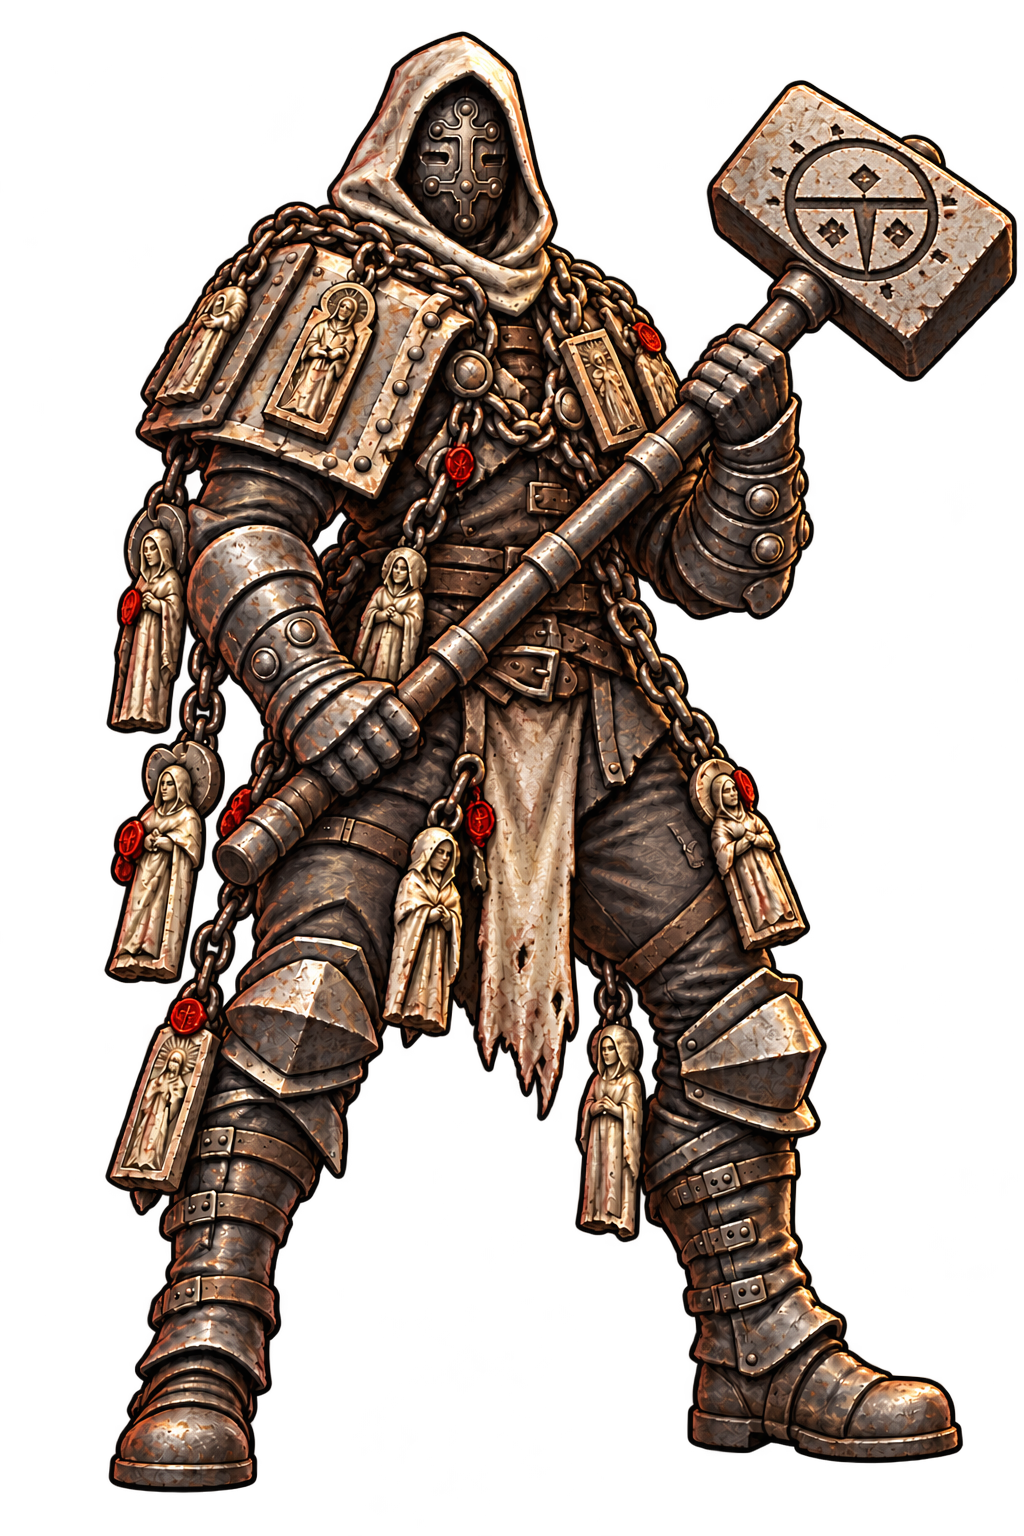
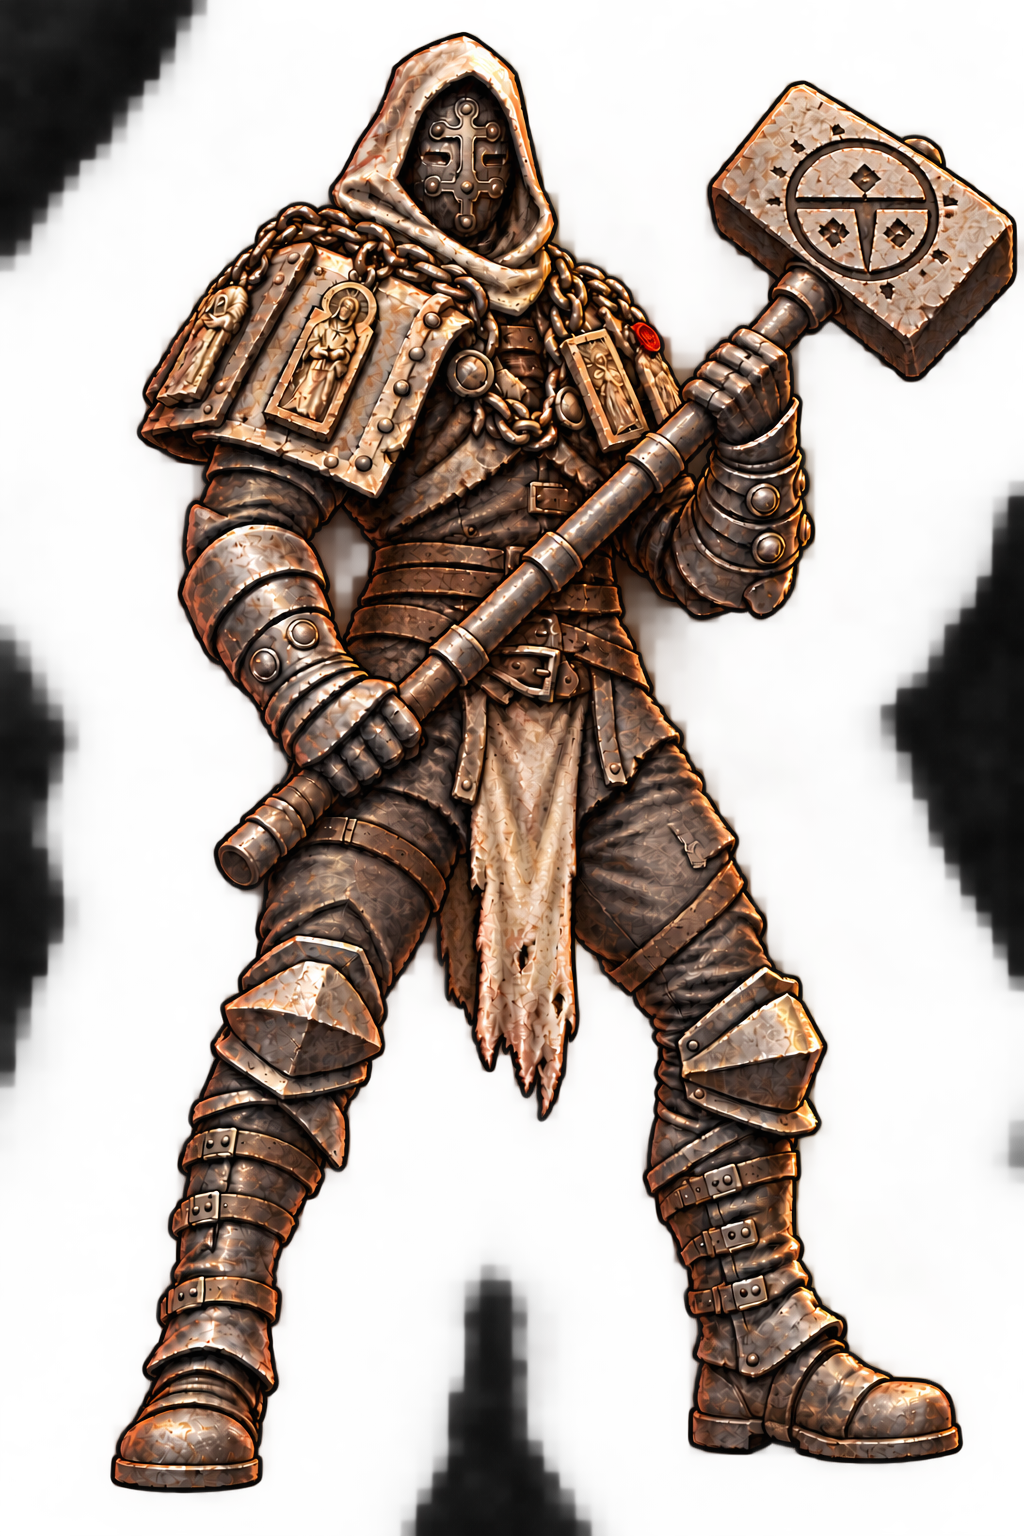
Match Witch Hunter armor and remove lower hanging relics

diff --git a/experimental/witch_hunter/README.md b/experimental/witch_hunter/README.md
@@ -4,12 +4,14 @@
 
 The approved visual direction is named **Witch Hunter**, a hooded two-handed hammer fighter intended to replace the Penitent Crusader. This folder contains the experimental character design; gameplay integration and animation assets are a later step.
 
-The user supplied a front-view image of [Bestiarum's Witch Hunter Bastion](https://bestiarumgames.com/products/witch-hunter-bastion-stl-penitent-hero) as the reference. The design carries over the hood, sealed devotional faceplate, broad armor, armored boots and long-shaft two-handed hammer. The cape is replaced with open hanging iron chains carrying carved robed figures and devotional plaques attached by rings. The hanging objects are relics rather than living figures. The hood remains cloth; the arms and legs stay readable through gaps in the chains.
+The user supplied a front-view image of [Bestiarum's Witch Hunter Bastion](https://bestiarumgames.com/products/witch-hunter-bastion-stl-penitent-hero) as the reference. The design carries over the hood, sealed devotional faceplate, broad armor, armored boots and long-shaft two-handed hammer. The cape is removed. Devotional relief figures and plaques remain only on the shoulder armor, with the upper shoulder/chest chains preserved. All lower hanging figures and their chains, medallions, seals and attachments have been removed, exposing clean reconstructed armor and cloth. The hood remains cloth.
 
-The concept uses the game's painted, ink-outlined dark fantasy style, a heavy melee build, a right-facing three-quarter stance and feet planted on a level baseline. The two-handed grip must remain readable and clear of hanging chains. No miniature base or raised stepping rock is used.
+The concept uses the game's painted, ink-outlined dark fantasy style, a heavy melee build, a right-facing three-quarter stance and feet planted on a level baseline. The two-handed grip remains readable and clear. No miniature base or raised stepping rock is used.
 
 This is a first design image, not an animation sheet. Front/back equipment layout, clean combat poses and any ability changes follow after visual approval.
 
-The concept was generated from the supplied reference image. Visual review checked the two-handed grip, complete hammer and boots, retained hood/mask, absent cape and chain-mounted relics. The PNG is 1024×1536 RGBA with transparency. No production tests were needed for this isolated concept image.
+The concept was generated from the supplied reference image. Visual review checked the two-handed grip, complete hammer and boots, retained hood/mask, absent cape and shoulder devotional reliefs. The PNG is 1024×1536 RGBA with transparency. No production tests were needed for this isolated concept image.
 
-The hammer face bears an original engraved banishment seal: a barred ward ring, central downward wedge and inward-facing angular marks. Bones and the earlier borrowed sigil have been removed. The engraving follows the metal face perspective. The hammer shaft and collars follow one straight centerline into its centered head socket. The chain-hung devotional relics, sealed mask, hood and two-handed grip retain the approved design.
+The hammer face bears an original engraved banishment seal: a barred ward ring, central downward wedge and inward-facing angular marks. Bones and the earlier borrowed sigil have been removed. The engraving follows the metal face perspective. The hammer shaft and collars follow one straight centerline into its centered head socket. The shoulder devotional details, sealed mask, hood and two-handed grip retain the approved design.
+
+Armor cleanup: the gauntlets and paired knees/shins/boots share matching construction with perspective; boot fastenings use matching leather straps and buckles. The lower ornaments and associated hanging hardware are removed. The approved pose, proportions, straight hammer, both sigils and transparent background are retained. This remains one full-body experimental illustration.

diff --git a/experimental/README.md b/experimental/README.md
@@ -14,8 +14,8 @@ as separate projects.
 ## Current previews
 
 - [Witch Hunter](witch_hunter/README.md): hooded two-handed hammer
-  fighter, sealed faceplate, and chains carrying carved devotional relics in
-  place of a cape, with a banishment seal engraved on the hammer. Intended
+  fighter, sealed faceplate, matched armor, shoulder devotional reliefs and
+  upper chains, with a banishment seal engraved on the hammer. Intended
   replacement for the Penitent Crusader; experimental concept for review.
 
 - [Ranger bow and two-shot execution](ranger_showcase/README.md): narrow-stance
